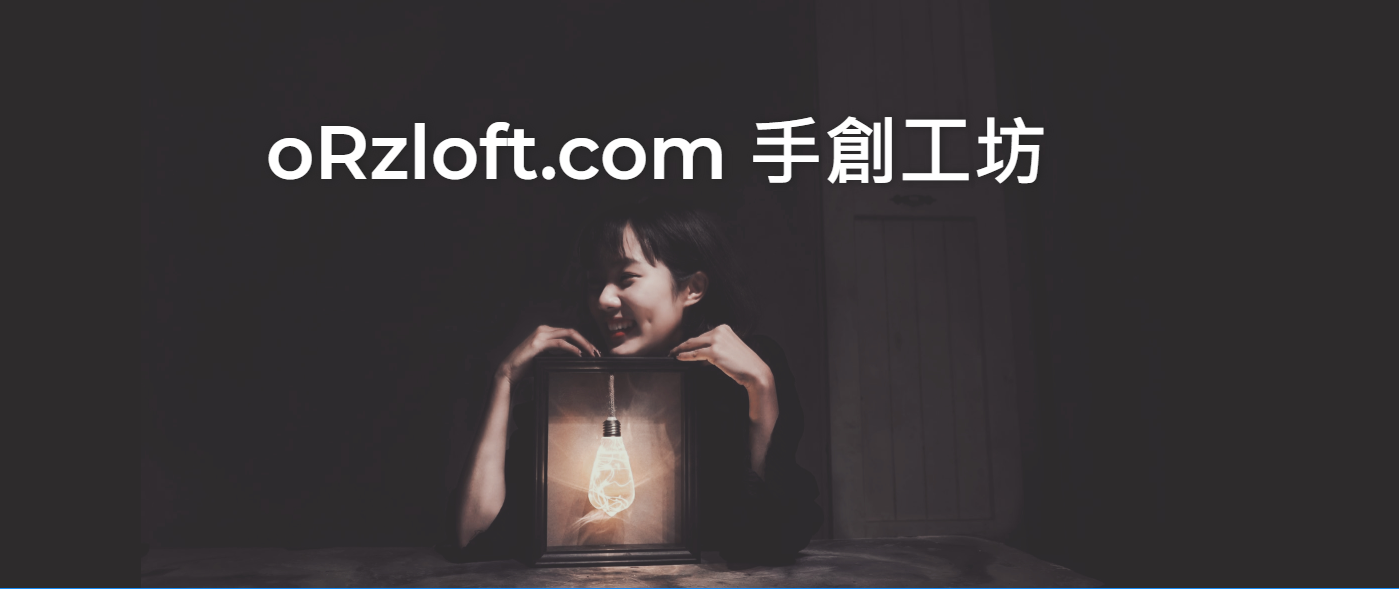
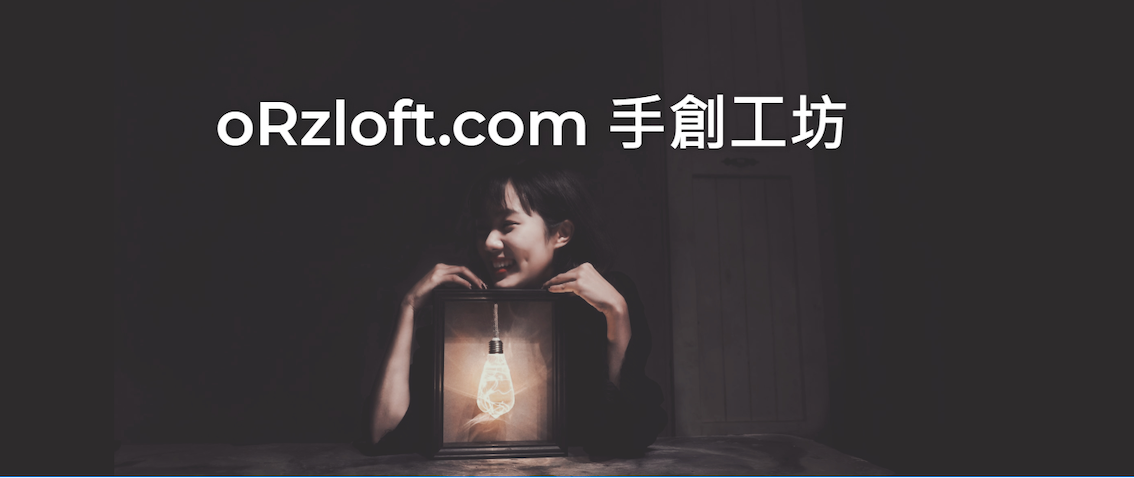
123

diff --git a/index.html b/index.html
@@ -39,7 +39,7 @@
                         <div class="card-body p-0">
                             <div class="row gx-0">
                                 
-                                <div class="col-lg-6 col-xl-7"><div class="bg-featured-blog"><img src="img/zzz1.png"></div></div>
+                                <div class="col-lg-6 col-xl-7"><div class="bg-featured-blog"><img src="img/24.png"></div></div>
                             </div>
                         </div>
                     </div>
